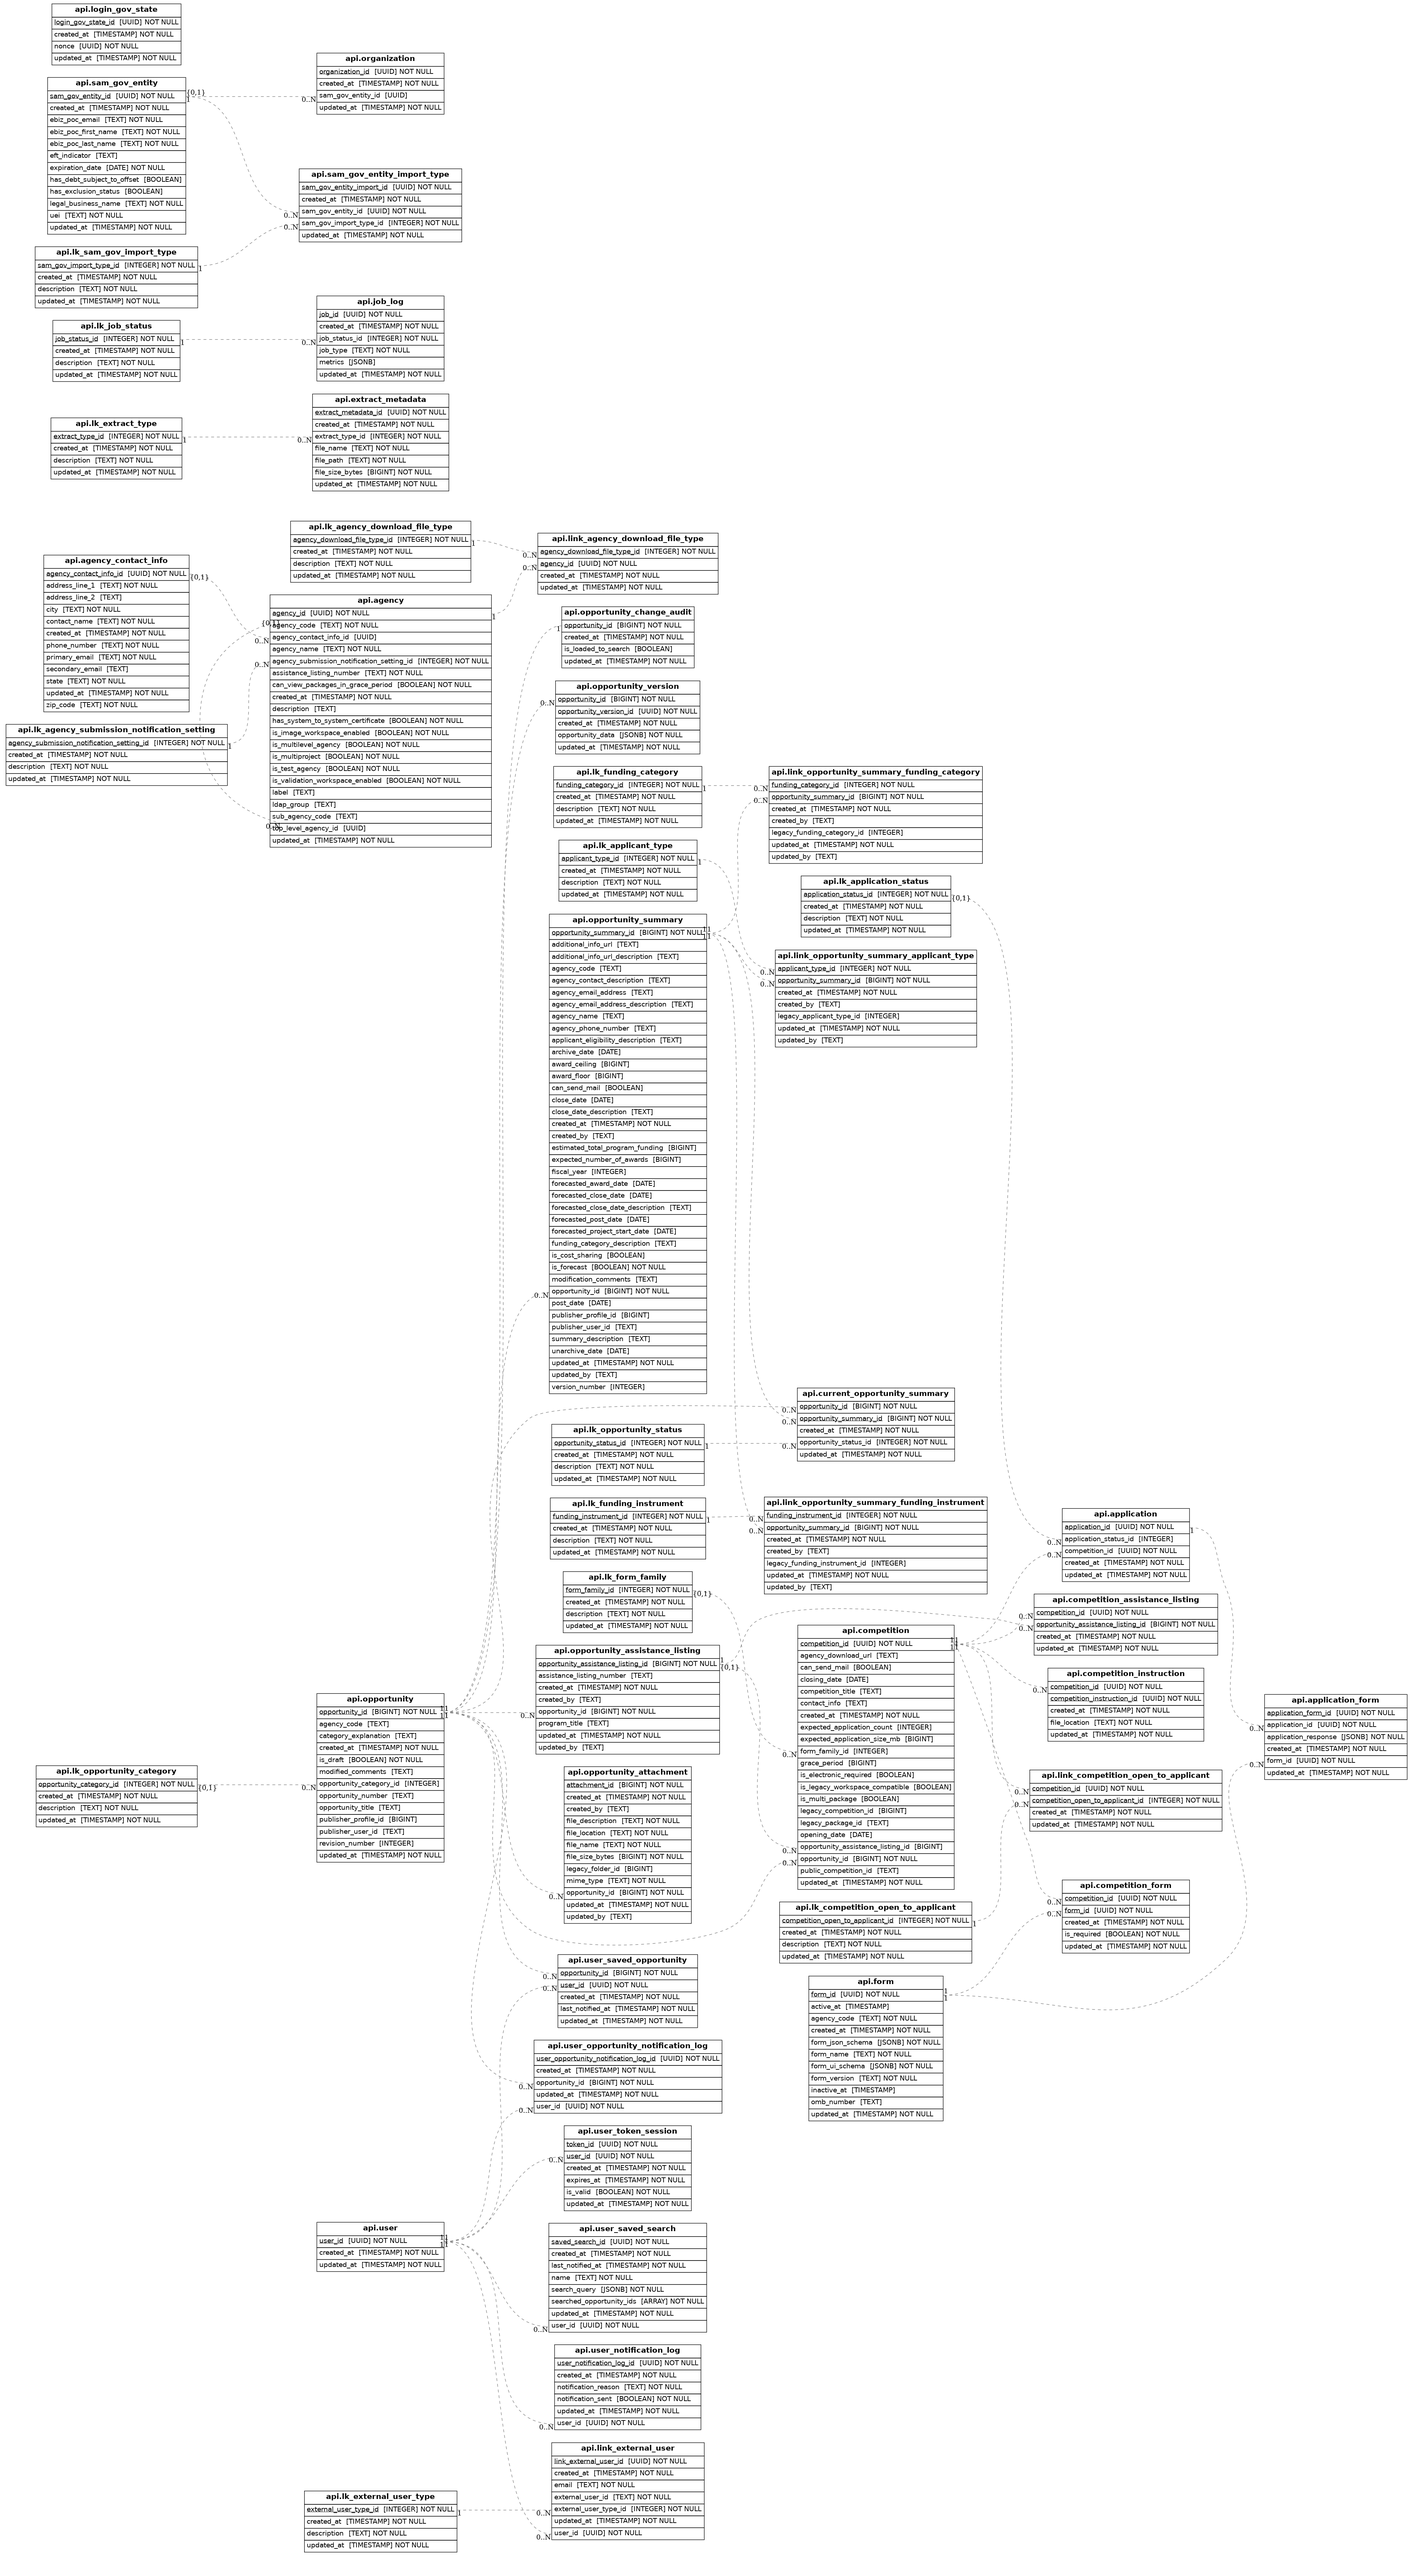
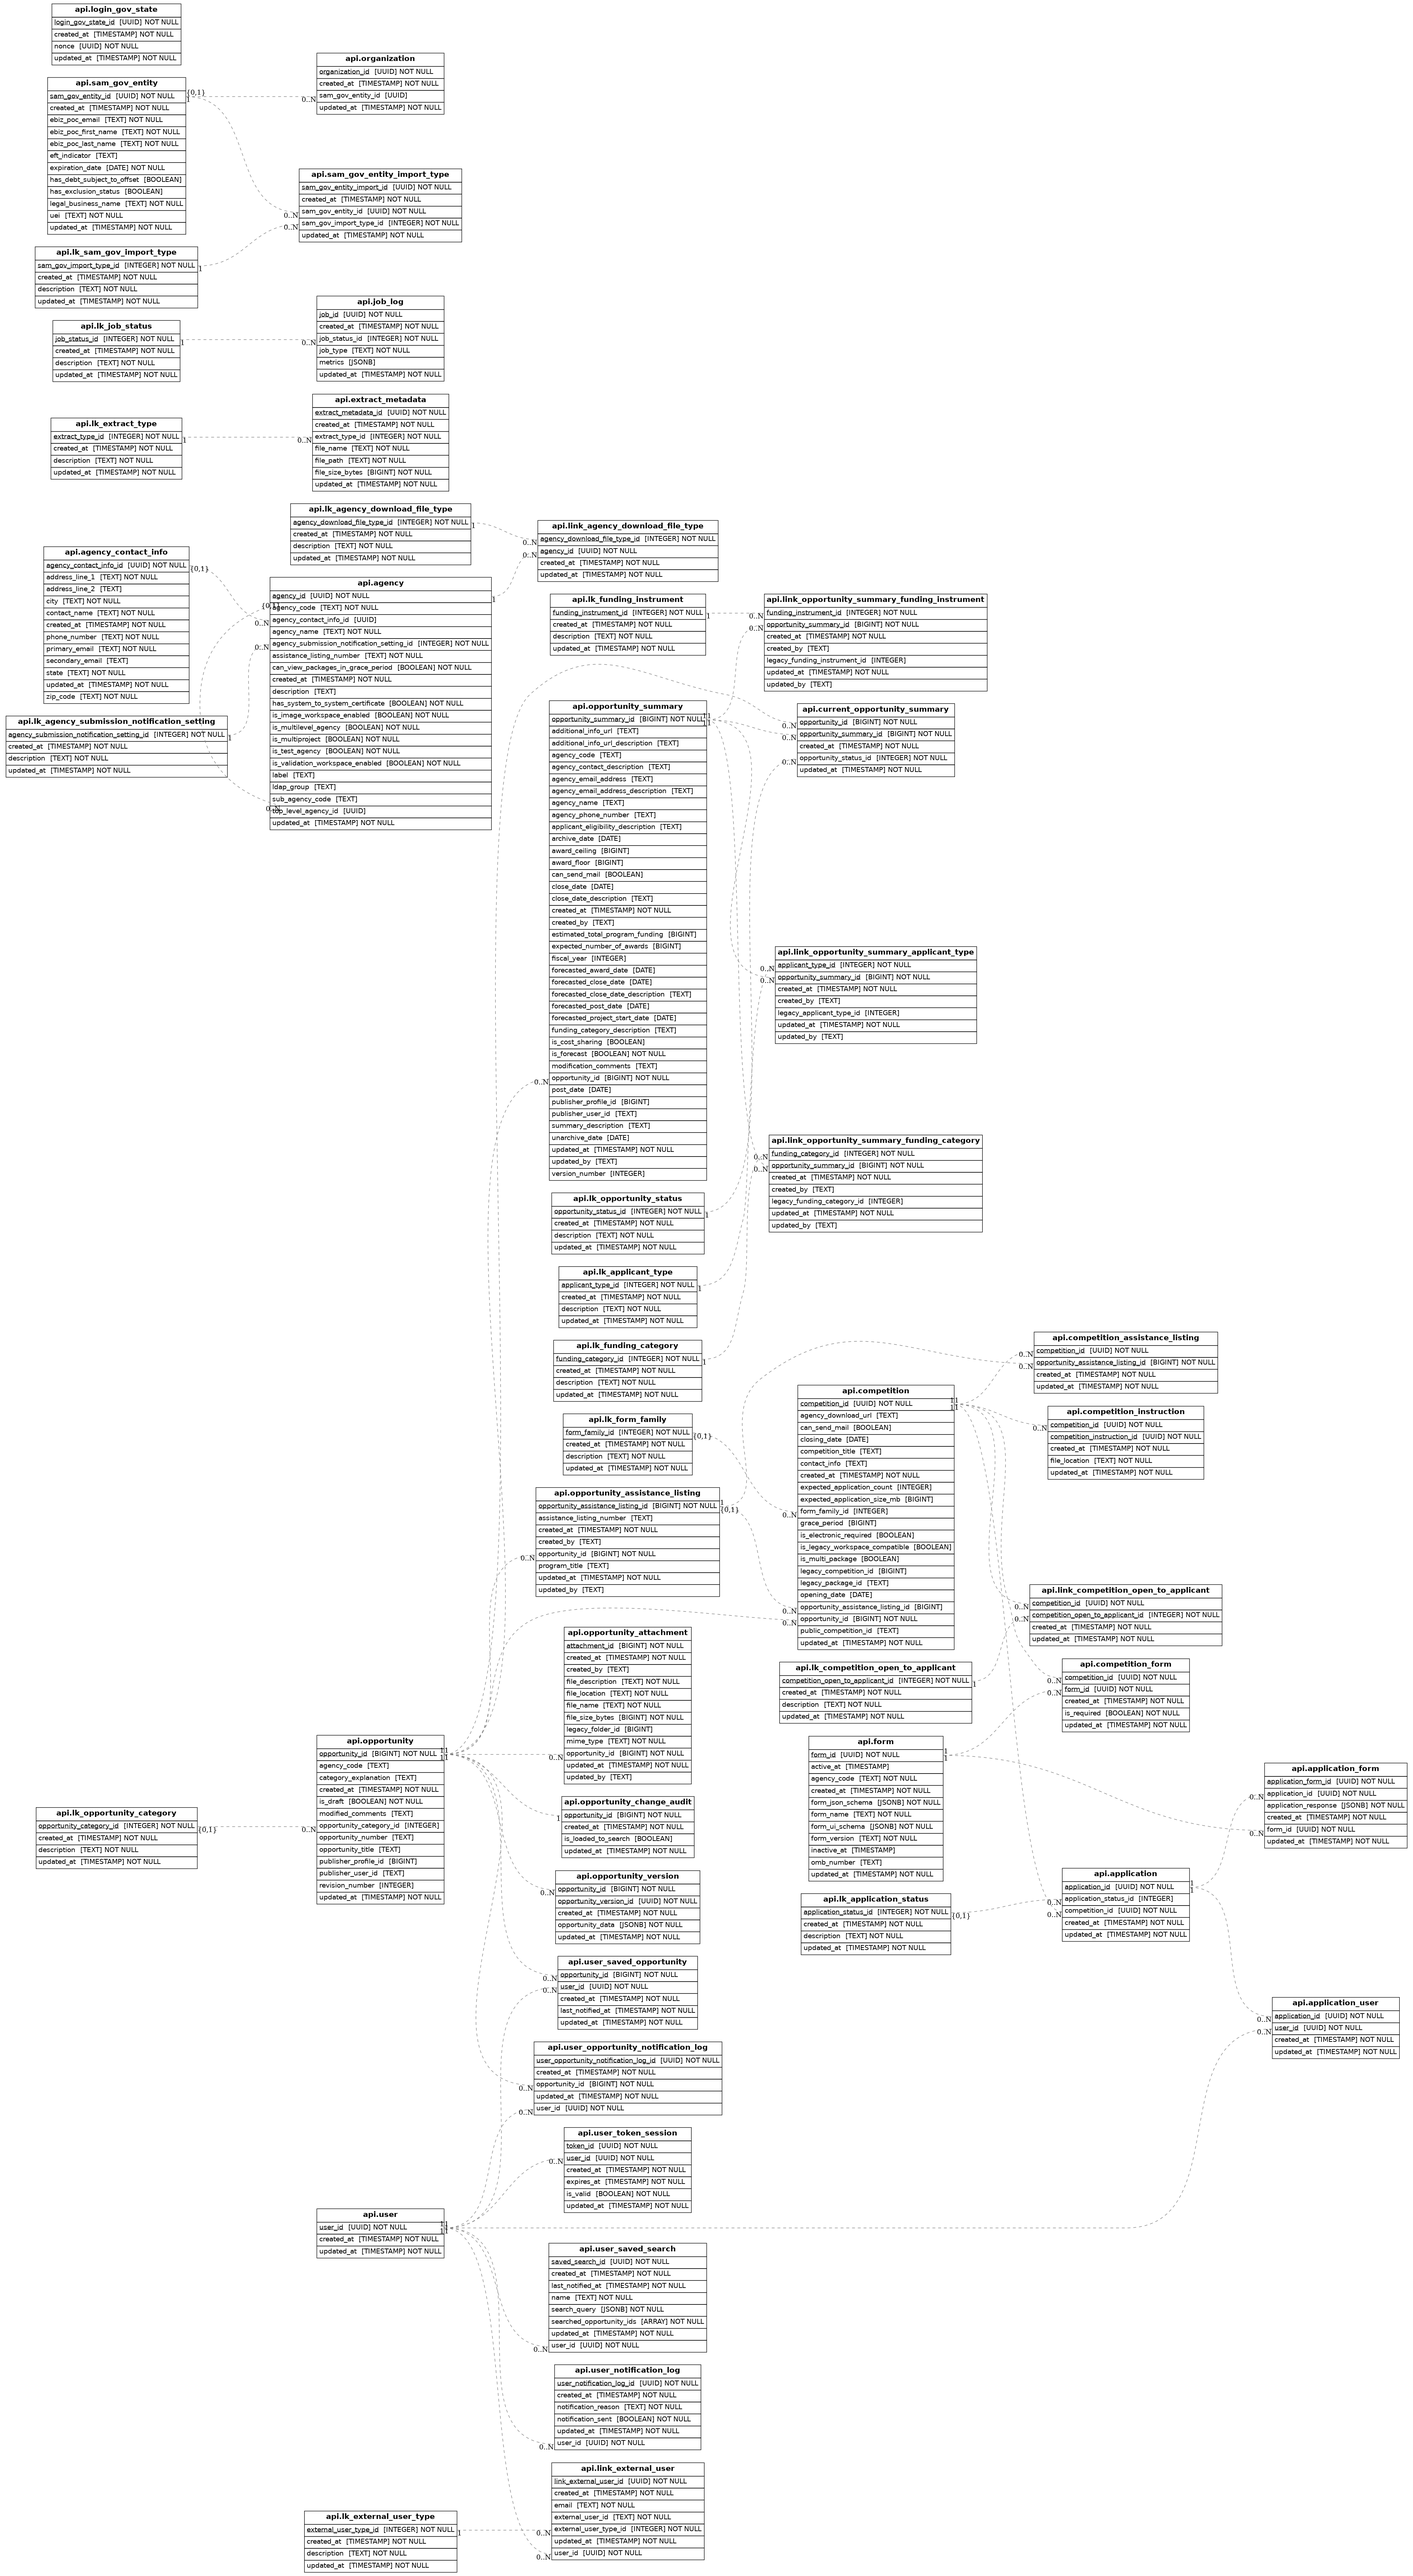
[Issue #4686] Add ApplicationUser table (#4868)
## Summary

Fixes #4686 

## Changes proposed

Adds `ApplicationUser` table model and migration

## Context for reviewers
In the future we'll likely include role information here but not now as
it is not presently scoped.

## Validation steps

Run migration, see created table.

diff --git a/api/src/db/models/user_models.py b/api/src/db/models/user_models.py
@@ -9,6 +9,7 @@ from sqlalchemy.sql.functions import now as sqlnow
 from src.adapters.db.type_decorators.postgres_type_decorators import LookupColumn
 from src.constants.lookup_constants import ExternalUserType
 from src.db.models.base import ApiSchemaTable, TimestampMixin
+from src.db.models.competition_models import Application
 from src.db.models.lookup_models import LkExternalUserType
 from src.db.models.opportunity_models import Opportunity
 from src.util import datetime_util
@@ -38,6 +39,10 @@ class User(ApiSchemaTable, TimestampMixin):
         ),
         uselist=False,
         viewonly=True,
+    )
+
+    application_users: Mapped[list["ApplicationUser"]] = relationship(
+        "ApplicationUser", back_populates="user", uselist=True, cascade="all, delete-orphan"
     )
 
     @property
@@ -162,3 +167,21 @@ class UserOpportunityNotificationLog(ApiSchemaTable, TimestampMixin):
     opportunity: Mapped[Opportunity] = relationship(
         "Opportunity", back_populates="all_opportunity_notification_logs"
     )
+
+
+class ApplicationUser(ApiSchemaTable, TimestampMixin):
+    """Link table between User and Application"""
+
+    __tablename__ = "application_user"
+
+    application_id: Mapped[uuid.UUID] = mapped_column(
+        UUID,
+        ForeignKey("api.application.application_id"),
+        primary_key=True,
+    )
+    user_id: Mapped[uuid.UUID] = mapped_column(
+        UUID, ForeignKey("api.user.user_id"), primary_key=True
+    )
+
+    application: Mapped[Application] = relationship(Application, back_populates="application_users")
+    user: Mapped[User] = relationship(User, back_populates="application_users")

diff --git a/api/src/db/migrations/versions/2025_04_30_add_application_user_table.py b/api/src/db/migrations/versions/2025_04_30_add_application_user_table.py
@@ -1,0 +1,54 @@
+"""Add application_user table
+
+Revision ID: b4aad25f47bc
+Revises: 6c83a4294387
+Create Date: 2025-04-30 14:02:54.814779
+
+"""
+
+import sqlalchemy as sa
+from alembic import op
+
+# revision identifiers, used by Alembic.
+revision = "b4aad25f47bc"
+down_revision = "6c83a4294387"
+branch_labels = None
+depends_on = None
+
+
+def upgrade():
+    # ### commands auto generated by Alembic - please adjust! ###
+    op.create_table(
+        "application_user",
+        sa.Column("application_id", sa.UUID(), nullable=False),
+        sa.Column("user_id", sa.UUID(), nullable=False),
+        sa.Column(
+            "created_at",
+            sa.TIMESTAMP(timezone=True),
+            server_default=sa.text("now()"),
+            nullable=False,
+        ),
+        sa.Column(
+            "updated_at",
+            sa.TIMESTAMP(timezone=True),
+            server_default=sa.text("now()"),
+            nullable=False,
+        ),
+        sa.ForeignKeyConstraint(
+            ["application_id"],
+            ["api.application.application_id"],
+            name=op.f("application_user_application_id_application_fkey"),
+        ),
+        sa.ForeignKeyConstraint(
+            ["user_id"], ["api.user.user_id"], name=op.f("application_user_user_id_user_fkey")
+        ),
+        sa.PrimaryKeyConstraint("application_id", "user_id", name=op.f("application_user_pkey")),
+        schema="api",
+    )
+    # ### end Alembic commands ###
+
+
+def downgrade():
+    # ### commands auto generated by Alembic - please adjust! ###
+    op.drop_table("application_user", schema="api")
+    # ### end Alembic commands ###

diff --git a/api/src/db/models/competition_models.py b/api/src/db/models/competition_models.py
@@ -1,5 +1,6 @@
 import uuid
 from datetime import date, datetime
+from typing import TYPE_CHECKING
 
 from sqlalchemy import BigInteger, ForeignKey
 from sqlalchemy.dialects.postgresql import JSONB, UUID
@@ -15,6 +16,10 @@ from src.db.models.lookup_models import (
     LkFormFamily,
 )
 from src.db.models.opportunity_models import Opportunity, OpportunityAssistanceListing
+
+# Add conditional import for type checking
+if TYPE_CHECKING:
+    from src.db.models.user_models import ApplicationUser
 
 
 class Competition(ApiSchemaTable, TimestampMixin):
@@ -147,6 +152,12 @@ class Application(ApiSchemaTable, TimestampMixin):
 
     application_forms: Mapped[list["ApplicationForm"]] = relationship(
         "ApplicationForm", uselist=True, back_populates="application", cascade="all, delete-orphan"
+    )
+
+    application_users: Mapped[list["ApplicationUser"]] = relationship(
+        "ApplicationUser",
+        back_populates="application",
+        uselist=True,
     )
 
 
